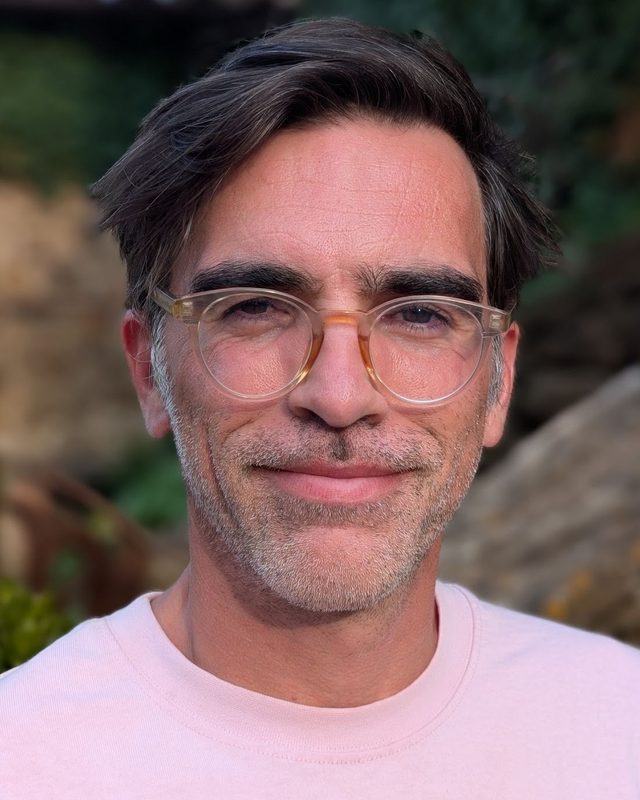
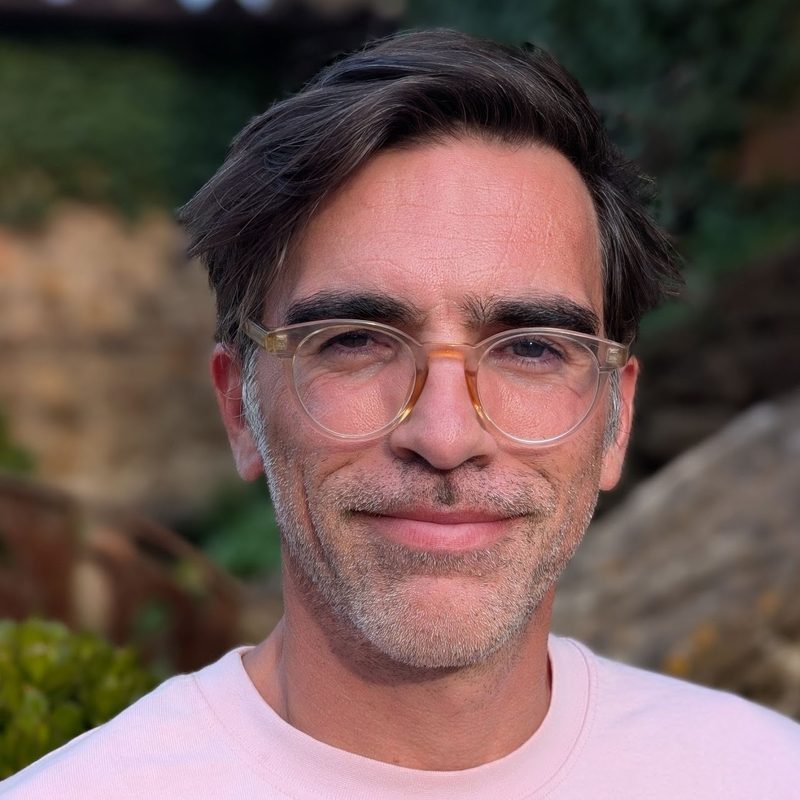
Bigger portrait: square crop, two-line affiliation, name sized to fill
The photo is now square and the affiliation sits on two slightly larger
lines, which makes the text block (and so the photo) taller. The name
size is solved from the header width with container units so photo,
gap and name fill the row exactly. Still aligned top and bottom.
At 1280px: 264 x 264, up from 185 x 232.

Claude-Session: https://claude.ai/code/session_01U9Exm283AZJSJEQ1sX1i18

diff --git a/style.css b/style.css
@@ -43,7 +43,6 @@
   --step-2: 1.625rem;
 
   --mark-col: 4.5rem;
-  --name-size: clamp(2.5rem, 9vw, 7.5rem);
 }
 @media (prefers-color-scheme: dark) {
   :root:not([data-theme="light"]) {
@@ -101,17 +100,23 @@ a:focus-visible { outline: 2px solid var(--accent); outline-offset: 2px; border-
 .wrap { max-width: 72rem; margin-inline: auto; }
 
 /* Masthead */
-/* The portrait is exactly as tall as the text beside it: its top sits on the cap height of
-   "Ciril" and its bottom on the baseline of the affiliation line. The numbers come from
+/* The square portrait is exactly as tall as the text beside it: its top sits on the cap height
+   of "Ciril" and its bottom on the baseline of the last affiliation line. The numbers come from
    Archivo's metrics (ascent 0.878, descent 0.210, cap height 0.686 em):
    - .name margin-top trims the space above the capitals: (0.9 - 1.088) / 2 + 0.878 - 0.686 = 0.098 em
-   - .role margin-bottom trims the space below the baseline: 1.35 - ((1.35 - 1.088) / 2 + 0.878) = 0.341 em
-   - text height = 1.8 x name - 0.098 x name + 1.1rem + 1.009 x 1.125rem = 1.702 x name + 2.235rem */
+   - .role margin-bottom trims the space below the last baseline: 1.35 - ((1.35 - 1.088) / 2 + 0.878) = 0.341 em
+   - text height = (1.8 - 0.098) x name + 1.25rem + (2 x 1.35 - 0.341) x 1.3125rem
+                 = 1.702 x name + 4.346rem  (this is also the photo's width, since it is square)
+   The name size is solved so that photo + gap + name fill the header exactly:
+   "Bosch-Rosa" is 7.279 x name wide, so 100cqw = 1.702 x name + 4.346rem + gap + 7.279 x name. */
 .masthead {
+  container-type: inline-size;
+  --hgap: clamp(1.5rem, 3vw, 2.5rem);
+  --name-size: clamp(2.5rem, calc((100cqw - var(--hgap) - 4.346rem) / 8.981 - 2px), 8rem);
   display: grid;
   grid-template-columns: auto minmax(0, 1fr);
   align-items: start;
-  gap: clamp(1.5rem, 3.5vw, 3rem);
+  gap: var(--hgap);
   padding-block: clamp(2.5rem, 6vw, 4.5rem) clamp(2rem, 3.5vw, 3rem);
   border-bottom: 1px solid var(--rule);
 }
@@ -126,19 +131,19 @@ a:focus-visible { outline: 2px solid var(--accent); outline-offset: 2px; border-
 }
 .name span { display: block; white-space: nowrap; }
 .role {
-  margin: 1.1rem 0 -0.341em;
+  margin: 1.25rem 0 -0.341em;
   font-family: var(--label);
-  font-size: var(--step-0);
+  font-size: var(--step-1);
   font-weight: 500;
   color: var(--muted);
   line-height: 1.35;
-  white-space: nowrap;
 }
+.role .line { display: block; white-space: nowrap; }
 .role a { text-decoration-color: var(--rule); }
 .portrait {
-  height: calc(1.702 * var(--name-size) + 2.235rem);
+  height: calc(1.702 * var(--name-size) + 4.346rem);
   width: auto;
-  aspect-ratio: 4 / 5;
+  aspect-ratio: 1;
   object-fit: cover;
   border-radius: 3px;
   background: var(--rule);
@@ -295,9 +300,10 @@ main { min-width: 0; max-width: 46rem; }
 
 /* Too narrow for the name and photo side by side: stack them */
 @media (max-width: 44rem) {
-  .masthead { grid-template-columns: minmax(0, 1fr); gap: 1.5rem; }
-  .portrait { width: 10rem; height: auto; }
-  .role { white-space: normal; margin-bottom: 0; }
+  .masthead { grid-template-columns: minmax(0, 1fr); gap: 1.5rem; --name-size: clamp(2.5rem, 12.5cqw, 5.5rem); }
+  .portrait { width: 12rem; height: auto; }
+  .role { margin-bottom: 0; }
+  .role .line { white-space: normal; }
 }
 
 /* Phones and narrow windows */

diff --git a/index.html b/index.html
@@ -22,10 +22,10 @@
 <div class="wrap">
 
 <header class="masthead">
-  <img class="portrait" src="photo.jpg" alt="Portrait of Ciril Bosch-Rosa" width="640" height="800">
+  <img class="portrait" src="photo.jpg" alt="Portrait of Ciril Bosch-Rosa" width="800" height="800">
   <div>
     <h1 class="name"><span>Ciril</span> <span>Bosch-Rosa</span></h1>
-    <p class="role"><a href="https://www.tu.berlin/en/macroeconomics">Chair of Macroeconomics</a>, Technische Universität Berlin</p>
+    <p class="role"><span class="line"><a href="https://www.tu.berlin/en/macroeconomics">Chair of Macroeconomics</a></span> <span class="line">Technische Universität Berlin</span></p>
   </div>
 </header>
 

diff --git a/README.md b/README.md
@@ -9,7 +9,7 @@ The paper PDFs are not stored here. They stay in `CirilBR/PaperRepository`, serv
 | `index.html` | All page content |
 | `style.css` | Design, light and dark themes, print layout |
 | `fonts/` | Newsreader and Archivo, subset to Latin (SIL Open Font License, texts included) |
-| `photo.jpg` | Portrait, 4:5; its displayed height follows the name beside it. Keep the file at least 640 × 800 px |
+| `photo.jpg` | Square portrait; its displayed size follows the name beside it. Keep the file at least 800 × 800 px |
 | `CNAME` | Tells GitHub Pages to serve the site at www.boschrosa.com |
 | `404.html`, `favicon.svg` | Not-found page and browser-tab icon |
 
